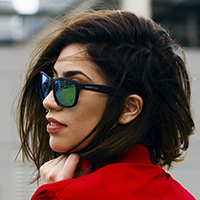
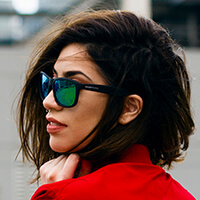
Optimize images

diff --git a/index.html b/index.html
@@ -33,13 +33,12 @@
 	<link rel="stylesheet" type="text/css" href="fonts/font-awesome-4.7.0/css/font-awesome.min.css">
 	<!-- Bootstrap  -->
 	<link rel="stylesheet" href="css/vendor/bootstrap.min.css">
-	<!-- Magnific Popup -->
-	<link rel="stylesheet" href="css/vendor/magnific-popup.css">
 	<!-- Owl Carousel  -->
 	<link rel="stylesheet" href="css/vendor/owl.carousel.min.css">
 	<link rel="stylesheet" href="css/vendor/owl.theme.default.min.css">
 	<!-- Lightbox -->
 	<link rel="stylesheet" href="css/vendor/lightbox.min.css">
+	<link rel="stylesheet" href="https://unpkg.com/swiper/swiper-bundle.min.css">
 
 	<!-- Theme style  -->
 	<link rel="stylesheet" href="css/main.css">
@@ -80,17 +79,29 @@
 		</nav>
 		<!-- Header -->
 		<section id="header" class="cover" data-parallax="scroll" data-image-src="img/header-bg.jpg">
+			<div class="swiper-container" id="heroSwiper" >
+				<div class="swiper-wrapper">
+					<div class="swiper-slide" style="background-image:url(./img/hero-1.jpg)"></div>
+					<div class="swiper-slide" style="background-image:url(./img/hero-2.jpg)"></div>
+					<div class="swiper-slide" style="background-image:url(./img/hero-3.jpg)"></div>
+					<div class="swiper-slide" style="background-image:url(./img/hero-4.jpg)"></div>
+					<div class="swiper-slide" style="background-image:url(./img/hero-5.jpg)"></div>
+					<div class="swiper-slide" style="background-image:url(./img/hero-6.jpg)"></div>
+				</div>
+			</div>
 			<div class="overlay"></div>
-			<div class="container">
-				<div class="row">
-					<div class="col-md-12 text-center">
-						<div class="display-t">
-							<div class="display-tc animated">
-								<h1>Save the date</h1>
-								<div class="banner-text">
-									<!-- <span class="banner-text_city">Gò Vấp <br>TP.HCM</span> -->
-									<span class="banner-text_names">Hữu Đức&nbsp;&&nbsp;Triều Anh</span>
-									<!-- <span class="banner-text_date">11/12 <br>2020</span> -->
+			<div class="content-overlay">
+				<div class="container">
+					<div class="row">
+						<div class="col-md-12 text-center">
+							<div class="display-t">
+								<div class="display-tc animated">
+									<h1>Save the date</h1>
+									<div class="banner-text">
+										<!-- <span class="banner-text_city">Gò Vấp <br>TP.HCM</span> -->
+										<span class="banner-text_names">Hữu Đức&nbsp;&&nbsp;Triều Anh</span>
+										<!-- <span class="banner-text_date">11/12 <br>2020</span> -->
+									</div>
 								</div>
 							</div>
 						</div>
@@ -660,9 +671,9 @@
 	<script src="js/vendor/jquery.countTo.js"></script>
 	<!-- Parallax -->
 	<script src="js/vendor/parallax.min.js"></script>
+	<script src="https://unpkg.com/swiper/swiper-bundle.min.js"></script>
+
 	<!-- Magnific Popup -->
-	<script src="js/vendor/jquery.magnific-popup.min.js"></script>
-	<script src="js/vendor/magnific-popup-options.js"></script>
 	<script src="js/vendor/lightbox.min.js"></script>
 	<script src="js/vendor/isotope.pkgd.min.js"></script>
 	<script src="js/vendor/imagesloaded.pkgd.min.js"></script>

diff --git a/css/main.css b/css/main.css
@@ -192,13 +192,21 @@ ol {
 	animation: rotate 1s linear infinite;
 }
 .overlay {
-	z-index: 0;
+	z-index: 2;
 	position: absolute;
 	bottom: 0;
 	top: 0;
 	left: 0;
 	right: 0;
 	background: rgba(51, 51, 51, 0.5);
+}
+.content-overlay {
+	z-index: 3;
+	position: absolute;
+	bottom: 0;
+	top: 0;
+	left: 0;
+	right: 0;
 }
 .display-t,
 .display-tc {
@@ -209,7 +217,9 @@ ol {
 .display-tc {
 	display: table-cell !important;
 	vertical-align: bottom;
-	padding-bottom: 80px;
+	padding-bottom: 50px;
+	/* vertical-align: top;
+	padding-top: 80px; */
 }
 .display-tc h1, .display-tc h2 {
 	margin: 0;
@@ -225,7 +235,8 @@ ol {
 }
 @media only screen and (min-width: 768px) {
 	.display-tc h1 {
-		font-size: 150px;
+		/* font-size: 150px; */
+		font-size: 100px;
 	}
 }
 .display-tc h1:before, .display-tc h1:after {
@@ -244,7 +255,8 @@ ol {
 }
 @media only screen and (min-width: 768px) {
 	.display-tc h2 {
-		font-size: 20px;
+		/* font-size: 20px; */
+		font-size: 16px;
 	}
 }
 .display-tc .btn {
@@ -273,11 +285,11 @@ ol {
 }
 span.banner-text_names {
 	font-family: "Pacifico", cursive;
-	font-size: 40px;
+	font-size: 30px;
 	line-height: 43px;
 	position: relative;
 }
-span.banner-text_names:before, span.banner-text_names:after {
+/* span.banner-text_names:before, span.banner-text_names:after {
 	content: '';
 	display: block;
 	position: absolute;
@@ -291,7 +303,7 @@ span.banner-text_names:before {
 }
 span.banner-text_names:after {
 	right: -1px;
-}
+} */
 .js .animate-box {
 	opacity: 0;
 }
@@ -632,6 +644,14 @@ img {
 .cover .display-tc {
 	opacity: 0;
 }
+.swiper-container, .swiper-wrapper, .swiper-slide {
+	width: 100%;
+	height: 100vh;
+}
+.swiper-slide {
+	background-size: cover;
+	background-position: center;
+}
 /* About-us */
 .couple-wrap {
 	width: 90%;
@@ -767,6 +787,20 @@ img {
 .events-accordion .panel-place {
 	padding: 5px 15px 0;
 }
+.events-accordion .panel-group {
+	margin-bottom: 0;
+}
+#accordion.panel-group {
+	padding: 40px 0;
+}
+#accordion .panel + .panel {
+	margin-top: 30px;
+}
+#accordion .panel-default > .panel-heading {
+	padding: 15px;
+	margin-bottom: 10px;
+}
+
 /* Our story */
 /* Timeline */
 .timeline {
@@ -1809,7 +1843,7 @@ footer .copyright .block {
 	}
 }
 .timeline > li {
-	margin-bottom: 20px;
+	margin-bottom: 0px;
 	position: relative;
 }
 .timeline > li:last-child {
@@ -1844,7 +1878,7 @@ footer .copyright .block {
 	width: 75%;
 	float: right;
 	border: 1px solid #ccc;
-	padding: 30px;
+	padding: 20px;
 	position: relative;
 	border-radius: 4px;
 }
@@ -1899,7 +1933,7 @@ footer .copyright .block {
 	right: auto;
 }
 .timeline-item {
-	min-height: 200px;
+	min-height: 180px;
 }
 .timeline .timeline-title {
 	margin-top: 0;

diff --git a/js/main.js b/js/main.js
@@ -215,6 +215,20 @@
 		});
 	};
 
+	// Hero Swiper
+	var heroSwiper = function(){
+		var swiper = new Swiper('.swiper-container', {
+			effect: 'fade',
+			loop: true,
+			lazy: true,
+			speed: 300,
+			autoplay: {
+				delay: 800,
+				disableOnInteraction: false,
+			},
+		  });
+	};
+
 	// Counter
 	var counter = function() {
 		$('.js-counter').countTo({
@@ -429,6 +443,7 @@
 		contentWayPoint();
 		dropdown();
 		testimonialCarousel();
+		heroSwiper();
 		counter();
 		counterWayPoint();
 		countdown();
